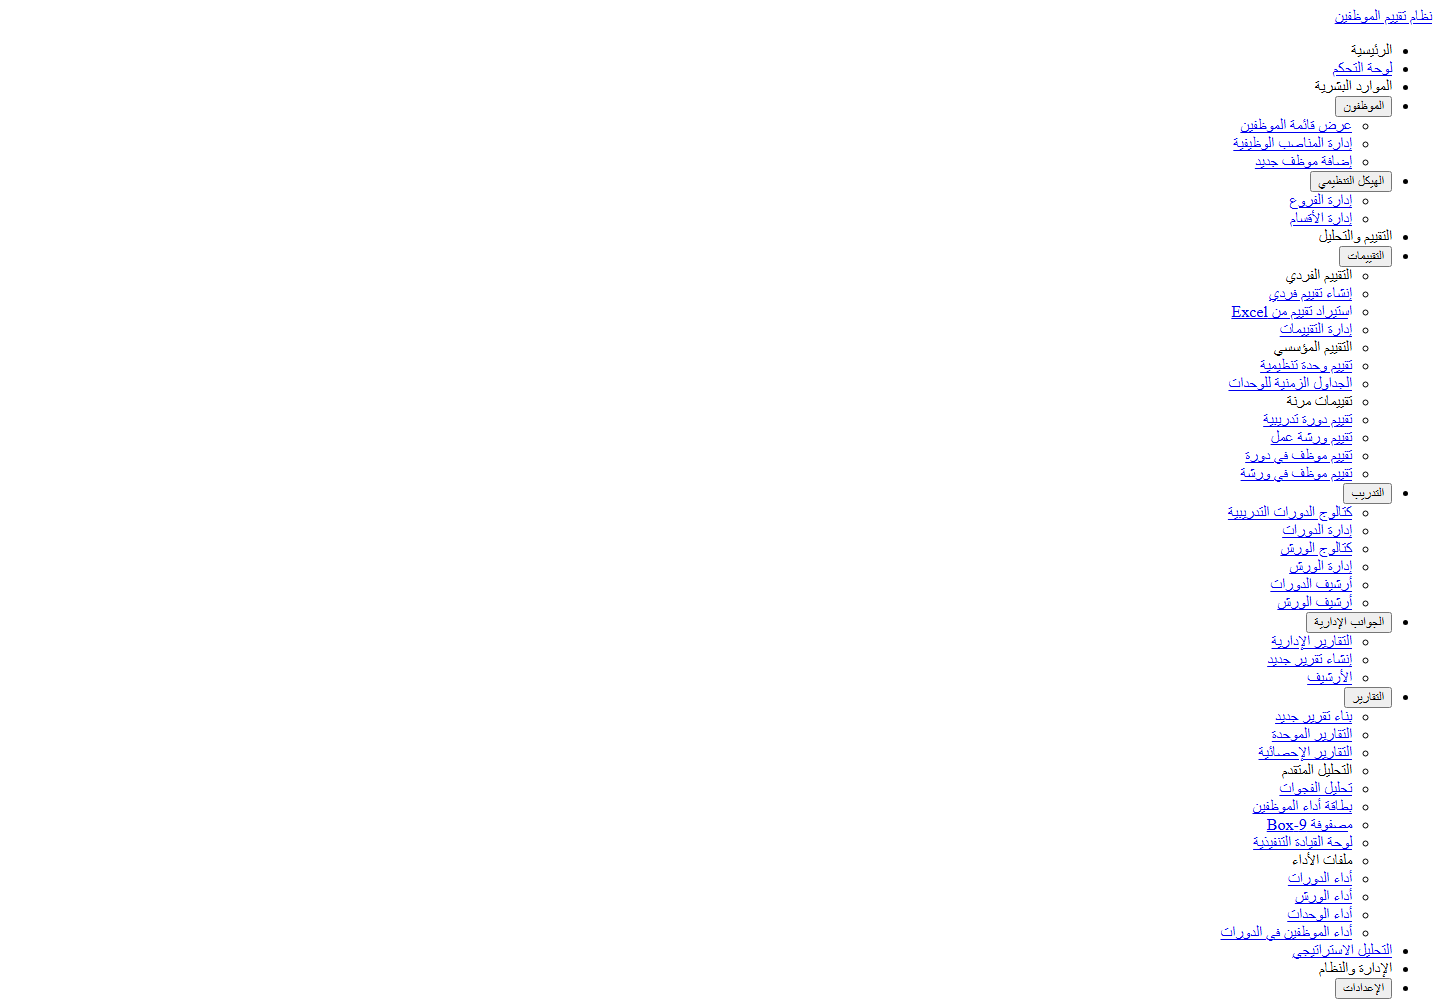
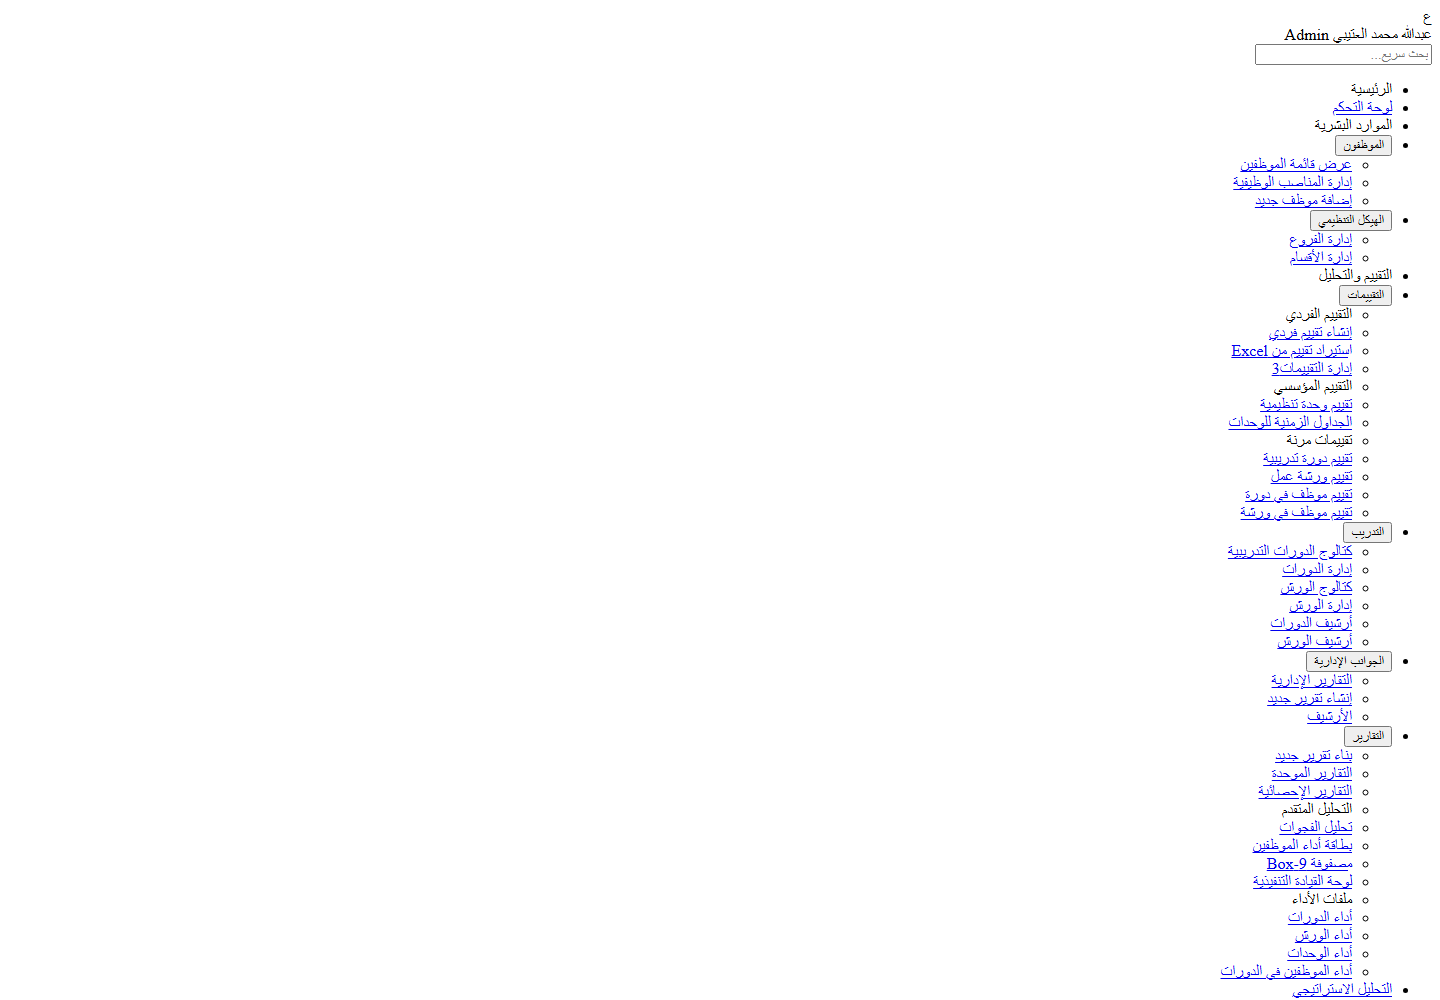
docs(CD-012): enterprise sidebar rebuild writeup with updated screenshots

Changed region(s): [[0.8438, 0.0, 1.0, 1.0]]

diff --git a/CD-012_Implementation.md b/CD-012_Implementation.md
@@ -90,6 +90,49 @@ check-encoding --path=delivery   -> 43 ملفاً / تسرّب 0 / exit=0
 
 ---
 
+## 2.c إعادة البناء بمعايير Enterprise (Luxurious SaaS) ✅
+
+بناءً على التوجيه الاستشاري «تجاوز المرجع» — أُعيد بناء الواجهة من الصفر:
+
+### الهوية البصرية
+| المتطلب | التنفيذ |
+|---|---|
+| خلفية كحلي داكن (Midnight Navy) | تدرّج `#0B1120 → #111827` + توهّج زمردي خفيف أعلى الشريط. |
+| تأثير زجاجية (Glassmorphism) | حدود 1px بيضاء شفافة (`rgba(255,255,255,.10)`) + خلفيات زجاجية داكنة. |
+| الخطوط | `Cairo` (متاح محلياً بأوزان 400/700/900) مع تدريج الأوزان. |
+
+### القسم العلوي
+- **بطاقة مستخدم:** Avatar دائري (الحرف الأول بتدرّج زمردي) + الاسم الكامل + الدور (مثل «Admin») من `role_name`.
+- **بحث سريع:** حقل بخلاصة «بحث سريع...» يفلتر روابط القائمة لحظياً (JS Vanilla) ويفتح المجموعات المطابقة.
+
+### الروابط والتفاعل
+- **حواف مستديرة 10px** وحشوة مريحة.
+- **Hover:** انزياح لليسار (RTL) + خلفية رمادية شفافة + أيقونة **زمردية** مع تكبير.
+- **Active:** **خط جانبي متوهّج (Neon)** زمردي + خلفية زجاجية داكنة (بدل الألوان الباهتة).
+- **شارات (Badges):** شارة حمراء حقيقية على «إدارة التقييمات» = عدد التقييمات قيد المراجعة (`pending_review`).
+
+### التصنيفات والقسم السفلي
+- **التصنيفات:** عناوين `Uppercase` بحجم 11px رمادي وبمسافات واسعة بين الأقسام.
+- **القسم السفلي:** زر «تسجيل الخروج» بتصميم أحمر داكن (`#7f1d1d`) + **مؤشر حالة النظام** بنبضة (Pulse Animation) بجوار «متصل».
+
+### الاستجابة
+- على الجوال: Drawer يفتح من اليمين + خلفية معتمة (Overlay) بـ `backdrop-filter`.
+
+### الملفات (الواجهة فقط — القيد محفوظ)
+`app/Views/layouts/sidebar.php` · `header.php` · `public/css/sidebar.css` · `public/js/sidebar.js`
+**لم تُمَس** أي Controllers/Routes/Models/منطق صلاحيات · **لا مكتبات خارجية** (CSS Transitions + JS Vanilla فقط).
+
+**القياسات النهائية:**
+```
+tests/runner.php                 -> 112/112 نجحت · 0 فشل · 0 خطأ · 13.2s
+check-encoding --path=app        -> 433 ملفاً / 73496 سطراً / تسرّب 0 / exit=0
+check-encoding --path=delivery   -> 43 ملفاً / تسرّب 0 / exit=0
+git diff --check                 -> exit=0
+اللقطات                          -> CD-012_sidebar_desktop.png (54,713 بايت) · CD-012_sidebar_mobile.png (30,375 بايت)
+```
+
+---
+
 ## 3) المرحلة 2 — إفراغ البيانات التشغيلية ⏸ (مؤجّلة حتى اعتماد الواجهة)
 - **القرار المعتمد:** الخيار الأول — **البيانات التشغيلية فقط**:
   حذف التقييمات (50) وإجاباتها (370) والموظفين التجريبيين ومستخدم الاختبار،
